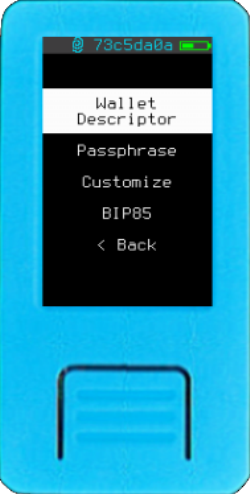
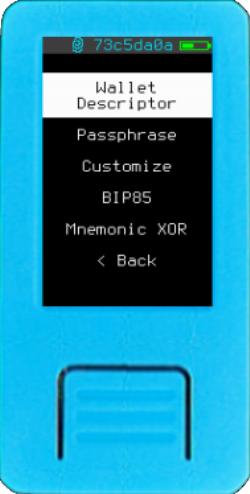
review xor docs (#52)

Changed region(s): [[0.168, 0.1215, 0.868, 0.5466]]

diff --git a/docs/getting-started/features/mnemonic-xor.en.md b/docs/getting-started/features/mnemonic-xor.en.md
@@ -1,84 +1,75 @@
 # What is the Mnemonic XOR?
 
-It is an implementation of XOR ([exclusive OR](https://en.wikipedia.org/wiki/Exclusive_or)) logical operation executed upon entropy of 2 or more mnemonics to combine their entropy, based on [Coinkite's SeedXOR](https://github.com/Coldcard/firmware/blob/master/docs/seed-xor.md).
+It is an implementation of XOR ([exclusive OR](https://en.wikipedia.org/wiki/Exclusive_or)) operation across the entropy values of two or more mnemonics to produce a combined result, based on [Coinkite's SeedXOR](https://github.com/Coldcard/firmware/blob/master/docs/seed-xor.md).
 
-# How it works
+## How it works
 
-To derive a new mnemonic (and thus, a new seed) from other mnemonics, Krux performs an XOR operation on the **mnemonic's entropy bytes**.
-An XOR operation between them results in new **entropy bytes** that will be converted to a new mnemonic and then to a new seed:
+Krux derives a new mnemonic (and therefore a new seed) by performing an XOR operation on the **entropy bytes** of the source mnemonics. The result of this XOR operation is a new set of **entropy bytes**, which are then converted into a new mnemonic - and subsequently, a new seed.
 
 <img src="../../../img/mnemonic_xor.png" align="center">
 
-- We get two different mnemonics (A and B), extract their **entropy bytes**;
-- validate the input entropies to avoid useless or dangerous operations:
-  - `A XOR B = A`: this means B is all zeros (useless operation - it will not change the XORed mnemonic);
-  - `A XOR B = A'` where `A'` is the bitwise complement of `A`: this means B is all ones (dangerous - creates a predictable inverse);
-- Krux will also ensure that the mnemonics to be XORed have the same length;
-- once the inputs are checked, Krux will apply an XOR operation between the **entropy bytes**;
-- validate the output entropy (same as above);
-- convert the valid **entropy bytes** output to a new mnemonic (C);
-- the user then can apply a password (optional) and get a new **master seed**.
+- Obtain two different mnemonics (A and B) and extract their **entropy bytes**.
+- Validate the input entropies to prevent redundant or unsafe operations:
 
-# Split and recover shares
+    - `A XOR B = A`: indicates that B consists entirely of zeros (useless - no change to the result).
+    - `A XOR B = A'`, where `A'` is the bitwise complement of `A`: indicates that B consists entirely of ones (dangerous - produces a predictable inverse).
 
-You can split a mnemonic into two separate mnemonics (or "shares") using the XOR operation. Neither share reveals any information about the original secret on its own. The original mnemonic can only be recovered when **both shares are combined**.
+- Ensure that both mnemonics have the same length before proceeding.
+- Perform the XOR operation between **entropy bytes** from `A` and `B`.
+- Validate the resulting entropy `C` (same checks as above).
+- Convert the valid **entropy bytes** `C` into a new mnemonic `C`.
+- Optionally, the user may apply a password to derive a new master seed.
+
+---
+
+## Split and Recover Parts (or "shares")
+
+A mnemonic can be split into two separate parts (or "shares") using the XOR operation. Each share by itself reveals nothing about the original secret. The original mnemonic can only be reconstructed when **both shares are combined**.
 
 ### Core Principle
 
-We make use of a XOR property:
+This method relies on a fundamental property of XOR:
 
 If `A XOR B = C`, then `B XOR C = A`.
 
-- **A**: Your original mnemonic (the secret to protect);
-- **B**: A newly generated, random mnemonic (Share 1);
-- **C**: The resulting mnemonic from the XOR operation (Share 2).
+- **A**: The original mnemonic (the secret to protect)
+- **B**: A newly generated random mnemonic (Share 1)
+- **C**: The mnemonic produced by the XOR operation (Share 2)
 
----
+### Step-by-Step Guide to Splitting Your Mnemonic
 
-## Step-by-Step Guide to Splitting Your Mnemonic
+#### Phase 1: Splitting Process
 
-### Phase 1: The Splitting Process
+##### Generate a Random Share (Mnemonic B)
 
-#### Step 1: Generate a Random Share (Mnemonic B)
+1. Generate a new random mnemonic using dice rolls or an image.
+2. **Important:** This mnemonic must have the same number of words (12 or 24) as your original mnemonic `A`.
 
-1. Generate a new, random mnemonic from dice rolls or an image;
-2. **CRITICAL**: This mnemonic must have the same number of words (12 or 24) as your original mnemonic (A).
+##### Back Up Mnemonic B
+- Use a reliable and secure method to back up mnemonic `B`.
 
-#### Step 2: Backup Mnemonic B
+##### Perform the XOR Operation
 
-- Use a safe method to backup mnemonic B.
+1. Load mnemonic `A`.
+2. Navigate to **Wallet -> Mnemonic XOR**.
+3. Load mnemonic `B` to be XORed with `A`.
+4. The resulting entropy from `A XOR B` will be used to generate the second share - mnemonic `C`.
 
-#### Step 3: Perform the XOR Operation
+##### Back Up Mnemonic C
+- Go to **Backup** and securely store mnemonic `C` using your preferred backup method.
 
-1. Load mnemonic A, go to **Wallet -> Mnemonic XOR** and load mnemonic B to be XORed with A;
-2. The resulting entropy of `A XOR B` will be used to create the second share, mnemonic C.
+#### Phase 2: Verification & Finalization
+Don't trust, verify!
 
-#### Step 4: Back Up Mnemonic C
+1. Retrieve your backups of mnemonics `B` and `C`.
+2. Load one of them and XOR it with the other.
+3. Confirm that the resulting mnemonic matches the original mnemonic `A`.
 
-1. Go to **Backup** and choose your favorite secure method to backup mnemonic C.
----
+⚠ **Only after successful verification** should you securely destroy the original mnemonic `A`.
 
-### Phase 2: Verification & Finalization
+#### Important Notes
 
-> ⚠ **DO NOT SKIP THIS PHASE**
-
-#### Step 5: Verify the Recovery Process
-
-**This is non-negotiable.** Before relying on the system or destroying the original mnemonic, perform a test:
-
-1. Retrieve mnemonic B and C backups;
-2. Load one of them and XOR it with the other;
-3. Verify that the resulting mnemonic matches the original mnemonic A.
-
-#### Step 6: Destroy the Original
-
-⚠ **Only after you have successfully verified in Step 5** that the recovery works perfectly should you securely destroy the original mnemonic (A).
-
----
-
-## Important Notes
-
-- **Keep shares separate**: Store mnemonic B and mnemonic C in different secure locations;
-- **Both shares required**: Neither share alone provides any information about the original mnemonic;
-- **Always verify**: Test the recovery process before destroying the original;
-- **Same word count**: All three mnemonics (A, B, and C) must have the same number of words.
+- **Keep shares separate:** Store mnemonics `B` and `C` in different secure locations.
+- **Both shares required:** Neither share alone reveals any information about the original mnemonic.
+- **Always verify!:** Test the recovery process before destroying the original.
+- **Matching word count:** All three mnemonics (`A`, `B`, and `C`) must have the same number of words.

diff --git a/docs/getting-started/usage/navigating-the-main-menu.en.md b/docs/getting-started/usage/navigating-the-main-menu.en.md
@@ -218,10 +218,14 @@ Choose between *12 or 24 words*, then type the desired *index* to export a *chil
 To create a *Base64 password*, which can be used in a variety of logins, from email to social media accounts, choose an index and then a length of at least 20 characters. The resulting password will be displayed on the screen and can also be exported to an SD Card or as a QR code.
 
 #### Mnemonic XOR
+<img src="../../../img/maixpy_m5stickv/xor-message-250.png" align="right" class="m5stickv">
+<img src="../../../img/maixpy_amigo/xor-message-300.png" align="right" class="amigo">
 
-Mnemonic XOR allows you to combine two or more mnemonics using an XOR (exclusive OR) operation on their entropy bytes to create a new mnemonic. This feature can be used to split a mnemonic into multiple shares or to combine existing mnemonics.
+Mnemonic XOR enables the **combination of two or more mnemonics** by applying an XOR (exclusive OR) operation to their entropy bytes, **resulting in a new mnemonic**. This functionality can be used to split a mnemonic into multiple parts (or "shares") or to merge existing ones.
 
-For detailed instructions on combining, splitting and recovering mnemonics using XOR, please refer to the [Mnemonic XOR documentation](../features/mnemonic-xor.md).
+For detailed instructions on combining, splitting, and recovering mnemonics using XOR, see [Mnemonic XOR](../features/mnemonic-xor.md).
+
+<div style="clear: both"></div>
 
 ### Address
 <img src="../../../img/maixpy_m5stickv/address-menu-250.png" align="right" class="m5stickv">
